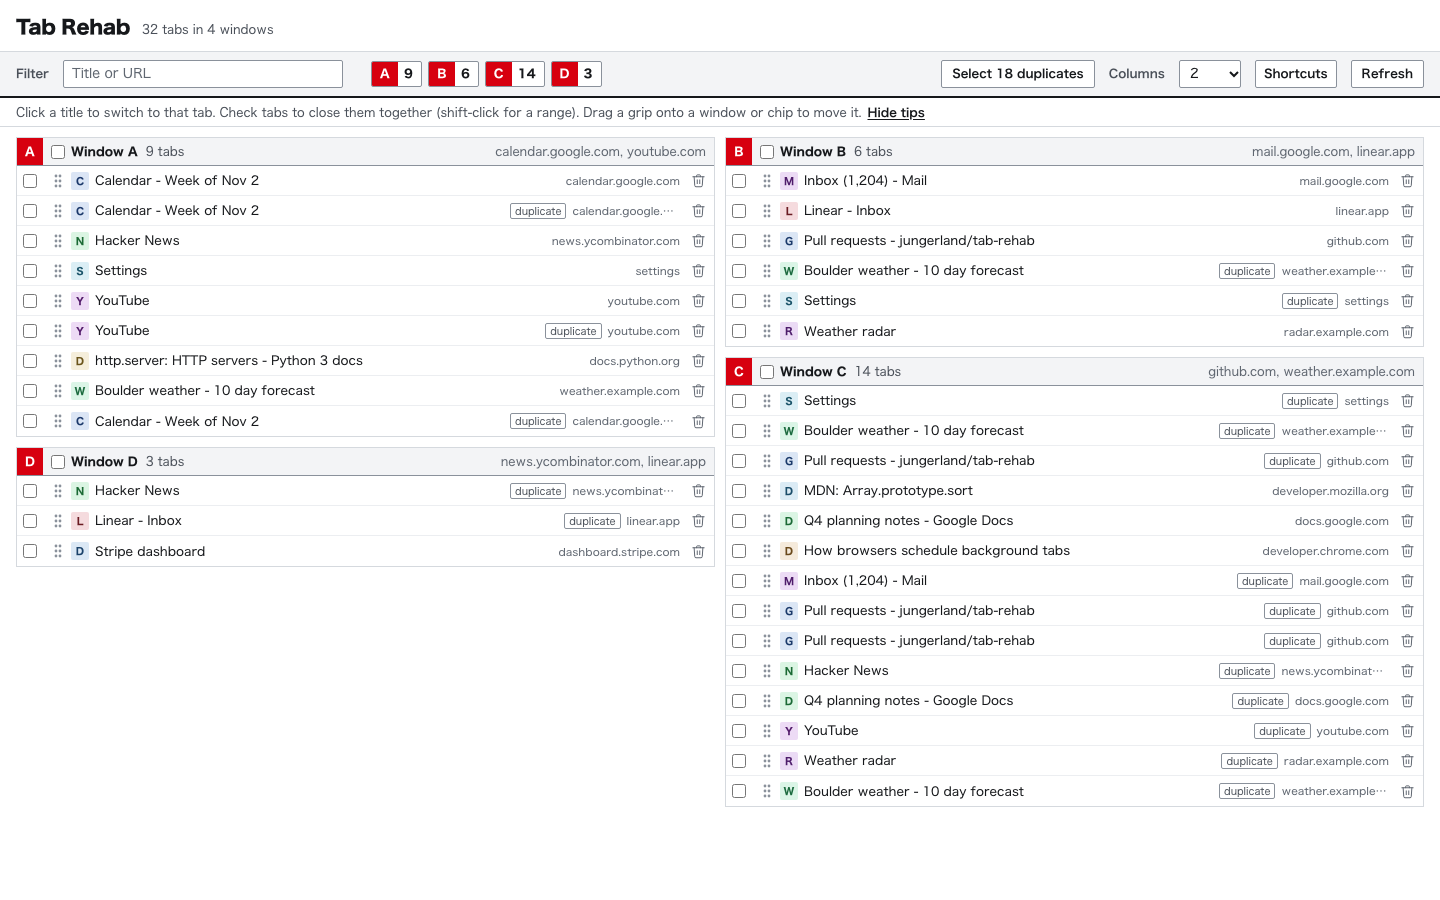
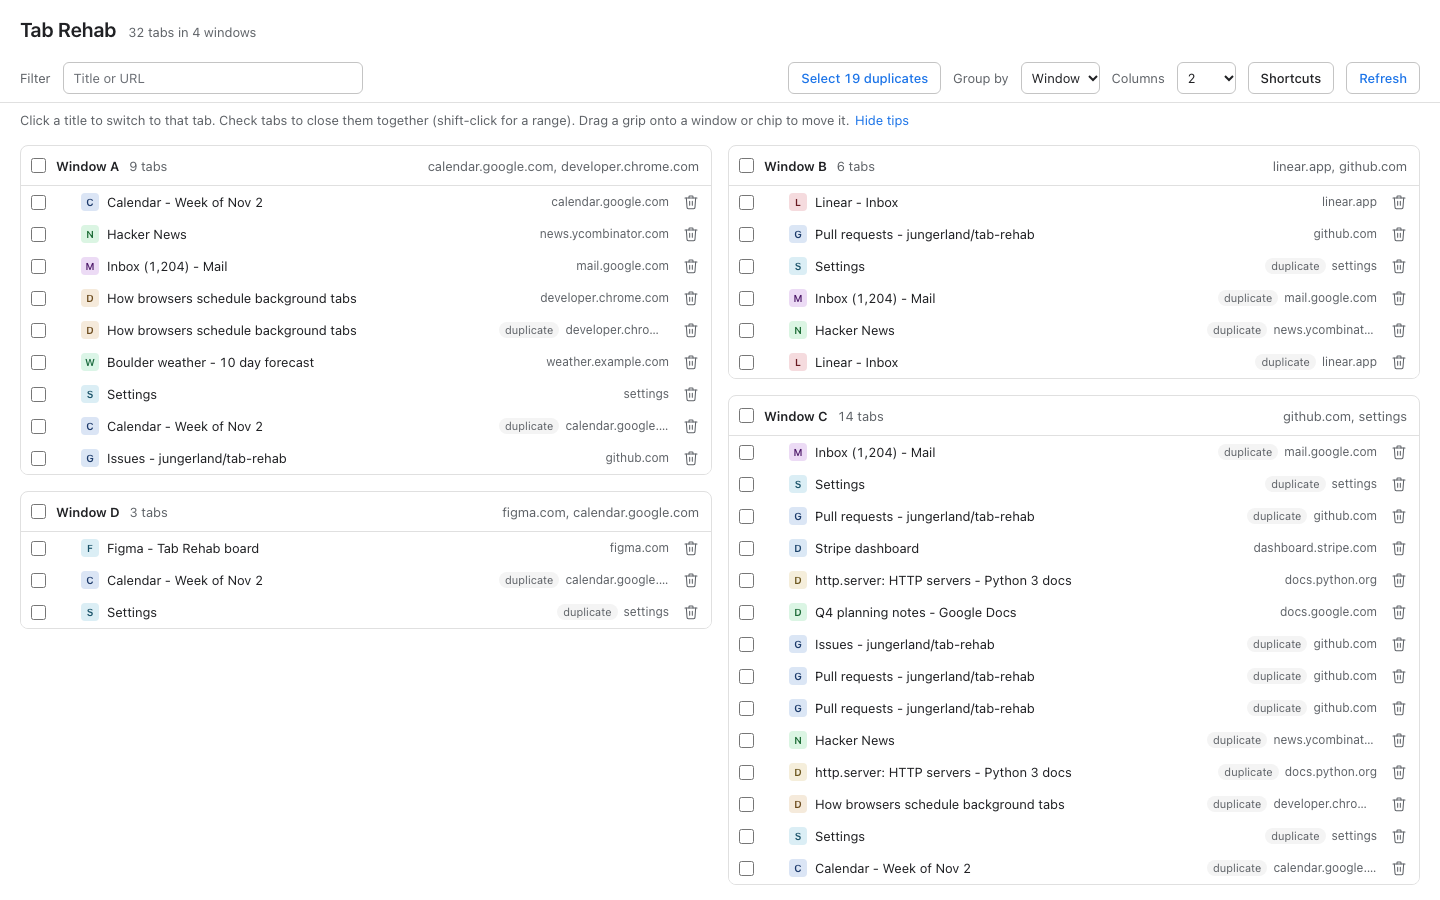
DESIGN.md and surface brief for the category-standard look; refresh screenshots

diff --git a/DESIGN.md b/DESIGN.md
@@ -1,249 +1,158 @@
 ---
 name: Tab Rehab
-description: Every open Chrome tab on one dense page, built for a fast purge.
+description: Every open Chrome tab on one page, grouped by window or site, built for a fast purge.
 colors:
-  utility-red: "#d7000f"
-  red-ink: "#b5000c"
-  red-wash: "#fff1f1"
-  ink: "#16181b"
-  ink-2: "#4a5059"
-  ink-3: "#5f6670"
+  ink: "#202124"
+  ink-2: "#5f6368"
+  ink-3: "#6b6f75"
   ground: "#ffffff"
-  panel: "#f3f4f6"
-  row-hover: "#f7f8fa"
-  rule: "#d5d9de"
-  row-rule: "#eceef1"
-  rule-strong: "#8a919b"
+  panel: "#f4f4f4"
+  hover: "#f2f2f2"
+  rule: "#e0e0e0"
+  rule-strong: "#c4c4c4"
+  blue: "#1a73e8"
+  blue-ink: "#1765cc"
+  blue-wash: "#e8f0fe"
+  error: "#c5221f"
+  snackbar: "#323232"
+  snackbar-action: "#8ab4f8"
 typography:
   headline:
-    fontFamily: "Hiragino Sans, Hiragino Kaku Gothic ProN, Segoe UI, Noto Sans, system-ui, sans-serif"
-    fontSize: "19px"
-    fontWeight: 800
-    letterSpacing: "-0.02em"
+    fontFamily: "system-ui, -apple-system, Segoe UI, Roboto, Noto Sans, sans-serif"
+    fontSize: "20px"
+    fontWeight: 600
   title:
-    fontFamily: "Hiragino Sans, Hiragino Kaku Gothic ProN, Segoe UI, Noto Sans, system-ui, sans-serif"
-    fontSize: "12px"
-    fontWeight: 700
+    fontFamily: "system-ui, -apple-system, Segoe UI, Roboto, Noto Sans, sans-serif"
+    fontSize: "13px"
+    fontWeight: 600
   body:
-    fontFamily: "Hiragino Sans, Hiragino Kaku Gothic ProN, Segoe UI, Noto Sans, system-ui, sans-serif"
-    fontSize: "12px"
+    fontFamily: "system-ui, -apple-system, Segoe UI, Roboto, Noto Sans, sans-serif"
+    fontSize: "13px"
     fontWeight: 400
     lineHeight: 1.4
     fontFeature: "tnum"
-  row-title:
-    fontFamily: "Hiragino Sans, Hiragino Kaku Gothic ProN, Segoe UI, Noto Sans, system-ui, sans-serif"
-    fontSize: "12.5px"
-    fontWeight: 400
   label:
-    fontFamily: "Hiragino Sans, Hiragino Kaku Gothic ProN, Segoe UI, Noto Sans, system-ui, sans-serif"
-    fontSize: "11px"
+    fontFamily: "system-ui, -apple-system, Segoe UI, Roboto, Noto Sans, sans-serif"
+    fontSize: "12px"
     fontWeight: 400
 rounded:
-  hairline: "1px"
-  sm: "2px"
+  badge: "4px"
+  control: "6px"
+  card: "8px"
+  pill: "15px"
 spacing:
-  xxs: "2px"
   xs: "4px"
-  sm: "6px"
-  md: "8px"
-  lg: "10px"
-  xl: "16px"
-  row: "30px"
+  sm: "8px"
+  md: "12px"
+  lg: "16px"
+  xl: "20px"
+  row: "32px"
 components:
-  window-tab:
-    backgroundColor: "{colors.utility-red}"
-    textColor: "{colors.ground}"
-    typography: "{typography.title}"
-    padding: "0 6px"
-    width: "26px"
-  window-header:
-    backgroundColor: "{colors.panel}"
+  window-card:
+    backgroundColor: "{colors.ground}"
+    border: "1px solid {colors.rule}"
+    rounded: "{rounded.card}"
+  card-header:
+    backgroundColor: "{colors.ground}"
     textColor: "{colors.ink}"
     typography: "{typography.title}"
-    height: "28px"
+    height: "40px"
   tab-row:
     backgroundColor: "{colors.ground}"
     textColor: "{colors.ink}"
-    typography: "{typography.row-title}"
+    typography: "{typography.body}"
     height: "{spacing.row}"
+  tab-row-hover:
+    backgroundColor: "{colors.hover}"
   tab-row-selected:
-    backgroundColor: "{colors.red-wash}"
-  button-purge:
-    backgroundColor: "{colors.utility-red}"
+    backgroundColor: "{colors.blue-wash}"
+  button-primary:
+    backgroundColor: "{colors.blue}"
     textColor: "{colors.ground}"
-    rounded: "{rounded.sm}"
-    padding: "0 12px"
-    height: "28px"
-  button-purge-hover:
-    backgroundColor: "{colors.red-ink}"
-  window-chip:
+    rounded: "{rounded.control}"
+    height: "32px"
+  button-secondary:
     backgroundColor: "{colors.ground}"
-    textColor: "{colors.ink}"
-    rounded: "{rounded.sm}"
-    height: "26px"
+    textColor: "{colors.blue}"
+    border: "1px solid {colors.rule-strong}"
+    rounded: "{rounded.control}"
+    height: "32px"
   input-filter:
     backgroundColor: "{colors.ground}"
-    textColor: "{colors.ink}"
-    rounded: "{rounded.sm}"
-    padding: "0 8px"
-    height: "28px"
-    width: "280px"
+    border: "1px solid {colors.rule-strong}"
+    rounded: "{rounded.control}"
+    height: "32px"
+    width: "300px"
   icon-button:
     backgroundColor: "transparent"
-    textColor: "{colors.ink-3}"
-    rounded: "{rounded.sm}"
-    size: "24px"
+    textColor: "{colors.ink-2}"
+    rounded: "50%"
+    size: "28px"
+  window-badge:
+    backgroundColor: "{colors.panel}"
+    textColor: "{colors.ink}"
+    rounded: "{rounded.badge}"
+    size: "20px"
   toast:
-    backgroundColor: "{colors.ink}"
+    backgroundColor: "{colors.snackbar}"
     textColor: "{colors.ground}"
-    rounded: "{rounded.sm}"
-    padding: "10px 12px"
+    rounded: "{rounded.control}"
 ---
 
 # Design System: Tab Rehab
 
 ## Overview
 
-**Creative North Star: "The Departure Board"**
+**Direction: the category standard, played straight.** Tab Rehab looks the way Chrome's own tab search, OneTab, and Tab Manager Plus look: a plain list grouped by window, neutral grays, one blue accent, nothing extra. It should sit beside Chrome's settings pages without standing out. Brand lives in the name and in the craft of the details, not in a visual world.
 
-Tab Rehab borrows the grammar of a Japanese high-density portal: white ground, near-black ink, cool gray hairlines and panel fills, and one utility red. The page exists so a 100-tab purge reads as one scan, so density is the feature. Rows are one line and 30px tall, window modules pack into columns, and every pixel of chrome either names a window, counts something, or closes something.
+This replaced the High-Density Grid look (white, ink, utility red) on 2026-11-07. The owner's monitors run a warm color tone, which turned the cool gray fills pink and made the red harsh. The fix is fewer fills and no red.
 
-The system is flat and ruled. Structure comes from hairlines, a 2px ink rule under the sticky bar, and gray header bands, not from cards or shadows. Red carries meaning, never decoration: a window's letter tab, and the act of purging. Everything else is ink on white at three steps of gray.
-
-Desktop only. There are no mobile layouts and none should be designed.
-
-**Key Characteristics:**
-- One-line, fixed-height rows (30px) with ellipsis, never wrapping.
-- A red letter tab (A, B, C...) names each window everywhere it appears.
-- Hairline rules and gray bands instead of shadows or rounded cards.
-- Near-square corners (2px) throughout.
-- Tabular numerals everywhere, since counts are the main data.
+**Key characteristics:**
+- White everywhere. Gray appears only as hover, small badges, and the duplicate pill.
+- One accent: blue, for primary actions, selection, focus, and links.
+- No red anywhere except error text.
+- Rounded, Material-like controls: 6px buttons and fields, 8px cards, round icon buttons.
+- One-line 32px rows in fixed columns.
 
 ## Colors
 
-A white-and-ink palette with three grays and a single utility red that is spent only on identity and purge.
-
-### Primary
-- **Utility Red** (`utility-red`): the window letter tab (module header, bar chips, Move-to menu, recently closed tray), the purge buttons, checkbox accent, text selection, and the filter caret. Red on hover for the trash button.
-- **Pressed Red** (`red-ink`): purge button hover, the trash icon when its row is hovered, focused, or selected, and text links inside the tray.
-- **Selection Wash** (`red-wash`): background of a row checked for closing.
-
-### Neutral
-- **Ink** (`ink`): primary text, the 2px rule under the sticky bar, focus outlines, drop-target outlines, and the toast background.
-- **Slate** (`ink-2`): secondary text: totals, counts, the hint line, field labels, Shortcuts descriptions.
-- **Pewter** (`ink-3`): tertiary text: hosts, top domains, placeholder, and resting action icons (including trash).
-- **Ground** (`ground`): page and module background.
-- **Panel Gray** (`panel`): the sticky bar, window header bands, and the drop-target fill.
-- **Row Hover** (`row-hover`): row background on hover or focus.
-- **Hairline** (`rule`): module borders and section dividers.
-- **Row Hairline** (`row-rule`): the faint divider between rows.
-- **Strong Rule** (`rule-strong`): input, chip, and popover borders, the grip, and the scrollbar thumb.
-
-Site monograms are the one place other hues appear. Each host gets a hue from its name, drawn as a pale tint behind a dark letter of the same hue (`hsl(h 55% 91%)` behind `hsl(h 60% 26%)`). They stay 18px and quiet.
+- **Blue** (`#1a73e8`): primary buttons (Close N selected, Close all N shown), secondary button text (Select duplicates, Refresh), checkbox accent, focus ring, the filter's focus border, drop target outline, "Hide tips" link.
+- **Blue Wash** (`#e8f0fe`): selected rows, drop target fill, secondary button hover.
+- **Ink** (`#202124`): titles and primary text. **Ink 2** (`#5f6368`): counts, hosts, labels, icons at rest.
+- **Rule** (`#e0e0e0`): card borders and the bar's bottom line. **Rule Strong** (`#c4c4c4`): control borders.
+- **Hover** (`#f2f2f2`) and **Panel** (`#f4f4f4`): row hover, window badges, the duplicate pill, `kbd`. These are true neutrals (equal RGB), never blue-tinted, so a warm screen doesn't turn them pink.
+- **Error** (`#c5221f`): inline row errors only.
+- Site monograms keep their per-host hue tints. They stand in for favicons.
 
 ### Named Rules
-**The Two Meanings Rule.** Red means a window's identity or the act of purging. It is not used for hover, drop targets, menu highlight, or emphasis. Drop targets and menu hover use an ink outline on Panel Gray instead.
+**The One Accent Rule.** Blue is the only accent. Closing tabs uses the same blue primary button as any other main action, the way Chrome's own dialogs do. Undo is the safety net, not color.
 
-**The Quiet Trash Rule.** The trash icon rests in Pewter. It turns red only when its row is hovered, focused, or selected, and fills red on direct hover. At 100 tabs, 100 red icons would drown the window tabs.
+**The No Pink Rule.** No blue-tinted grays and no filled gray bands. Structure comes from white cards with a light border.
 
 ## Typography
 
-**Body Font:** Hiragino Sans (with Hiragino Kaku Gothic ProN, Segoe UI, Noto Sans, system-ui)
-
-**Character:** a compact gothic sans at small sizes, chosen for density and clean Latin and numerals. One family does all the work; hierarchy comes from weight, not size.
-
-### Hierarchy
-- **Headline** (800, 19px, -0.02em): the page title only.
-- **Title** (700, 12px): window header names, window letter tabs, chip counts, purge buttons.
-- **Row Title** (400, 12.5px): tab titles in rows. The only text slightly larger than body, because it is what the eye scans.
-- **Body** (400, 12px, 1.4): everything else, with tabular numerals on by default.
-- **Label** (400, 11px): hosts in rows and `kbd` keys.
-
-### Named Rules
-**The Weight Not Size Rule.** The ramp spans 11 to 19px. New hierarchy is made with weight (400, 600, 700) and color (Ink, Slate, Pewter), not by adding sizes.
-
-**The Counted Rule.** Tabular numerals stay on page-wide. Counts are the data.
+The platform system font (San Francisco on Mac, Segoe UI on Windows, Roboto on Linux). Body and rows 13px, page title 20px/600, card headers 13px/600, hosts and labels 12px. Tabular numerals for counts.
 
 ## Layout
 
-A sticky Panel Gray bar sits under a short header and holds, left to right: the labeled filter, the "N of M" count, one chip per window (hidden at rest, so the bar stays quiet; the chips appear only while a tab is being dragged, as drop targets for windows that are off screen), red purge buttons when relevant (close selected, close all shown), a white "Select N duplicates" button, then the Group by menu (Window or Site) and the Columns picker, the recently closed tray, Shortcuts, and Refresh pushed right. Chips sit before the buttons so they never shift when one appears. A 2px Ink rule closes the bar. Below it, a one-line tips hint the user can hide (remembered), then the window modules. Duplicate rows carry a small bordered "duplicate" tag in Slate before the host; it is not red, because selecting is not purging.
+A short header (title and running total), then a sticky white bar with a bottom rule: the labeled filter, the "N of M" count, the window chips (hidden at rest, shown only while dragging, as drop targets), primary purge buttons when relevant, Select duplicates, the Group by menu (Window or Site), Columns, the Recently closed tray, Shortcuts, and Refresh. Below it, a one-line tips line the user can hide.
 
-Modules pack into fixed columns (at least 460px wide, 10px gap, 10px between modules), so short windows sit under each other instead of leaving holes. Each window is assigned to a column once, at page load, by shortest column first, and stays there while tabs close; the page repacks only when a window resize changes the column count. Windows are lettered by Chrome window id and keep their letter for as long as the server runs. In Group by Site, modules are websites (biggest first, single-tab sites share one "Sites with one tab" module at the end). The module header leads with the site monogram instead of a red letter tab, and each row swaps its monogram for a small red window letter tag, so red still means window identity. Page padding is 16px at the sides.
-
-Rows are a fixed grid: checkbox, grip, monogram, title (flexible, ellipsis), host (max 170px), trash. View, copy, and move appear on hover or focus as an overlay on top of the host cell, so the row never reflows.
-
-The spacing scale is small and tight: 2, 4, 6, 8, 10, 16px, plus the 30px row unit.
-
-## Elevation & Depth
-
-Flat by default. Depth is drawn with rules and fills: hairline module borders, Panel Gray header bands, and the 2px Ink rule under the sticky bar. Shadows exist only on things that float over the page.
-
-### Shadow Vocabulary
-- **Float** (`box-shadow: 0 2px 6px rgba(22,24,27,.16)`): popovers (tray, Shortcuts) and the Move-to menu.
-- **Toast** (`box-shadow: 0 8px 24px rgba(22,24,27,.25)`): the undo toast at bottom left.
-
-### Named Rules
-**The Only-What-Floats Rule.** If it sits in the page flow, it has no shadow. Only popovers, menus, and the toast lift.
-
-## Shapes
-
-Near-square everywhere: 2px corners on buttons, chips, inputs, monograms, `kbd`, and the toast. Modules and popovers are square-cornered with a 1px border. The window letter tab is a solid red block that fills the full height of its header or chip, flush left, which makes it read like a file tab.
+Window cards pack into fixed columns (Columns picker: Auto or 1 to 4, default 2; 16px gaps). Each window is assigned a column once, at load, by shortest column first, and stays there while tabs close. Windows are lettered by Chrome window id and keep their letter while the server runs. In Group by Site, cards are websites, biggest first, with single-tab sites sharing a "Sites with one tab" card at the end.
 
 ## Components
 
-### Window Letter Tab (signature)
-A solid red block, white bold letter, at least 26px wide, full height of its container. It names a window in the module header, the bar chip, the Move-to menu, and each row of the recently closed tray. Any new surface that refers to a window uses it.
-
-### Window Module
-- **Border:** 1px Hairline, square corners, white ground.
-- **Header:** 28px Panel Gray band with a Strong Rule underline. Letter tab, "Window A" in bold, tab count in Slate, top two domains in Pewter pushed right with ellipsis.
-- **Drop target:** 2px Ink outline (inset) and Panel Gray fill while a tab is dragged over.
-
-### Tab Row
-- **Shape:** 30px, one line, Row Hairline divider, no last-row divider.
-- **States:** hover or focus gets Row Hover; selected gets Selection Wash; moving or busy drops to 45% opacity.
-- **Actions:** view, copy, move as 24px icon buttons (15px stroked SVG, 1.6 stroke) overlaying the host cell on hover or focus. Trash is always present (see The Quiet Trash Rule).
-- **Error:** a row error replaces the host text inline, in bold Ink (not red). The error page uses an Ink top rule. Red stays reserved for window identity and purge.
-
-### Buttons
-- **Purge (primary):** Utility Red, white bold text, 28px tall, 12px side padding, 2px corners. Hover deepens to Pressed Red. Only purge actions use it.
-- **Bar controls (Tray, Shortcuts, Select duplicates, Refresh, Columns):** white, 1px Strong Rule border, 28px, 2px corners; border goes Ink on hover or when open.
-- **Refresh:** a text link with a Strong Rule underline that turns Ink on hover.
-- **Icon buttons:** transparent, Pewter, 24px; hover gets a light gray fill and Ink.
-
-### Chips
-- **Style:** white, 1px Strong Rule border, 26px tall, 2px corners, letter tab flush left, bold count.
-- **State:** hover turns the border Ink. Same Ink-outline drop-target treatment as modules.
-
-### Inputs / Fields
-- **Style:** 280px by 28px, white, 1px Strong Rule border, 2px corners, 13px text, Pewter placeholder, red caret. Always paired with a visible label.
-- **Focus:** the global 2px Ink outline, 1px offset.
-
-### Popovers and Menu
-White, 1px Strong Rule border, Float shadow. The Move-to menu lists windows by letter tab; hover and keyboard focus use Panel Gray with an inset 2px Ink outline.
-
-### Toast
-Ink background, white text, 2px corners, Toast shadow, bottom left. Its action (Undo) is a white underlined text button.
+- **Window card:** white, 1px Rule border, 8px corners. Header 40px: select-all checkbox, "Window A" in 600, count in Ink 2, top two sites right-aligned. In Site view the header leads with the site monogram.
+- **Tab row:** 32px, no dividers. Checkbox, drag grip (visible on hover or focus only), site monogram, title (ellipsis; click switches to the tab), host, then a round trash button. View, copy, and move appear on hover or focus over the host. Hover is Hover gray, selected is Blue Wash. In Site view the monogram is swapped for a window badge.
+- **Window badge:** 20px, 4px corners, Panel gray with Ink letter. Used in chips, the Move-to menu, the Recently closed tray, and Site-view rows.
+- **Buttons:** primary is filled Blue with white text; secondary is white with a Rule Strong border and Blue text, Blue Wash on hover. Icon buttons are 28px circles, gray on hover.
+- **Duplicate pill:** "duplicate" in 11px Ink 2 on Panel gray, 8px radius, before the host.
+- **Popovers and Move-to menu:** white, 1px Rule border, 8px corners, soft shadow (`0 4px 16px rgba(0,0,0,.12)`). They close on any outside click.
+- **Toast:** Material snackbar, `#323232` with white text and a light-blue Undo.
 
 ## Do's and Don'ts
 
-### Do:
-- **Do** use the red letter tab whenever a window is named, on any surface.
-- **Do** keep rows one line at 30px and truncate with ellipsis.
-- **Do** show drop targets and menu highlight with a 2px Ink outline on Panel Gray.
-- **Do** theme browser surfaces from the palette: scrollbars in Strong Rule on Panel Gray, red selection and caret, Ink focus outlines.
-- **Do** keep row actions as overlays so revealing them never shifts the row.
-
-### Don't:
-- **Don't** use red for hover, emphasis, drop targets, or decoration (The Two Meanings Rule).
-- **Don't** give in-flow elements shadows or rounded card corners above 2px.
-- **Don't** add type sizes to create hierarchy; use weight and the three grays.
+- **Do** keep every surface white; use borders, not fills, for structure.
+- **Do** use standard controls (native select, checkbox, buttons) styled lightly.
+- **Don't** add a second accent color, red, or tinted grays.
+- **Don't** add decoration, textures, or a visual theme. The category standard is the point.
 - **Don't** design mobile layouts.
-
-## Open (not yet decided)
-
-These were considered in the finish review and deliberately not taken. They are open questions, not decisions.
-
-- **Display face.** The page title is set in the platform sans. A self-hosted condensed face would suit the world but means shipping a font file inside a single-file tool.
-- **DIN-style numerals** for counts and chips.
-- **Tag badges** on rows.

diff --git a/.impeccable/surfaces/tab-rehab-py.md b/.impeccable/surfaces/tab-rehab-py.md
@@ -15,3 +15,7 @@ FIRST VIEWPORT: Title and total at top left. A sticky gray bar holds the filter 
 FORM: chosen challenger "High-Density Grid" (catalog japanese-high-density-web), over the assigned Garage Sale Dots. Seed key 9399ed3b. Signature move: the red letter tab names a window everywhere (module header, bar chips, and later the Move-to menu and undo tray).
 
 FINISH: unreviewed and undocumented is unfinished; this build ends with the finish review, the verdict, DESIGN.md, and every shipping raster carrying its provenance
+
+## Redirection (2026-11-07)
+
+The owner took the category standard (canon) over High-Density Grid, after a safer re-roll. Reason: warm-toned monitors turned the cool gray fills pink and the utility red harsh. Craft bar: Chrome's tab search, OneTab, Tab Manager Plus. White surfaces, true-neutral grays, one blue accent, no red. Behavior is unchanged. DESIGN.md is replaced; the THESIS density goal and fixed columns stay.
